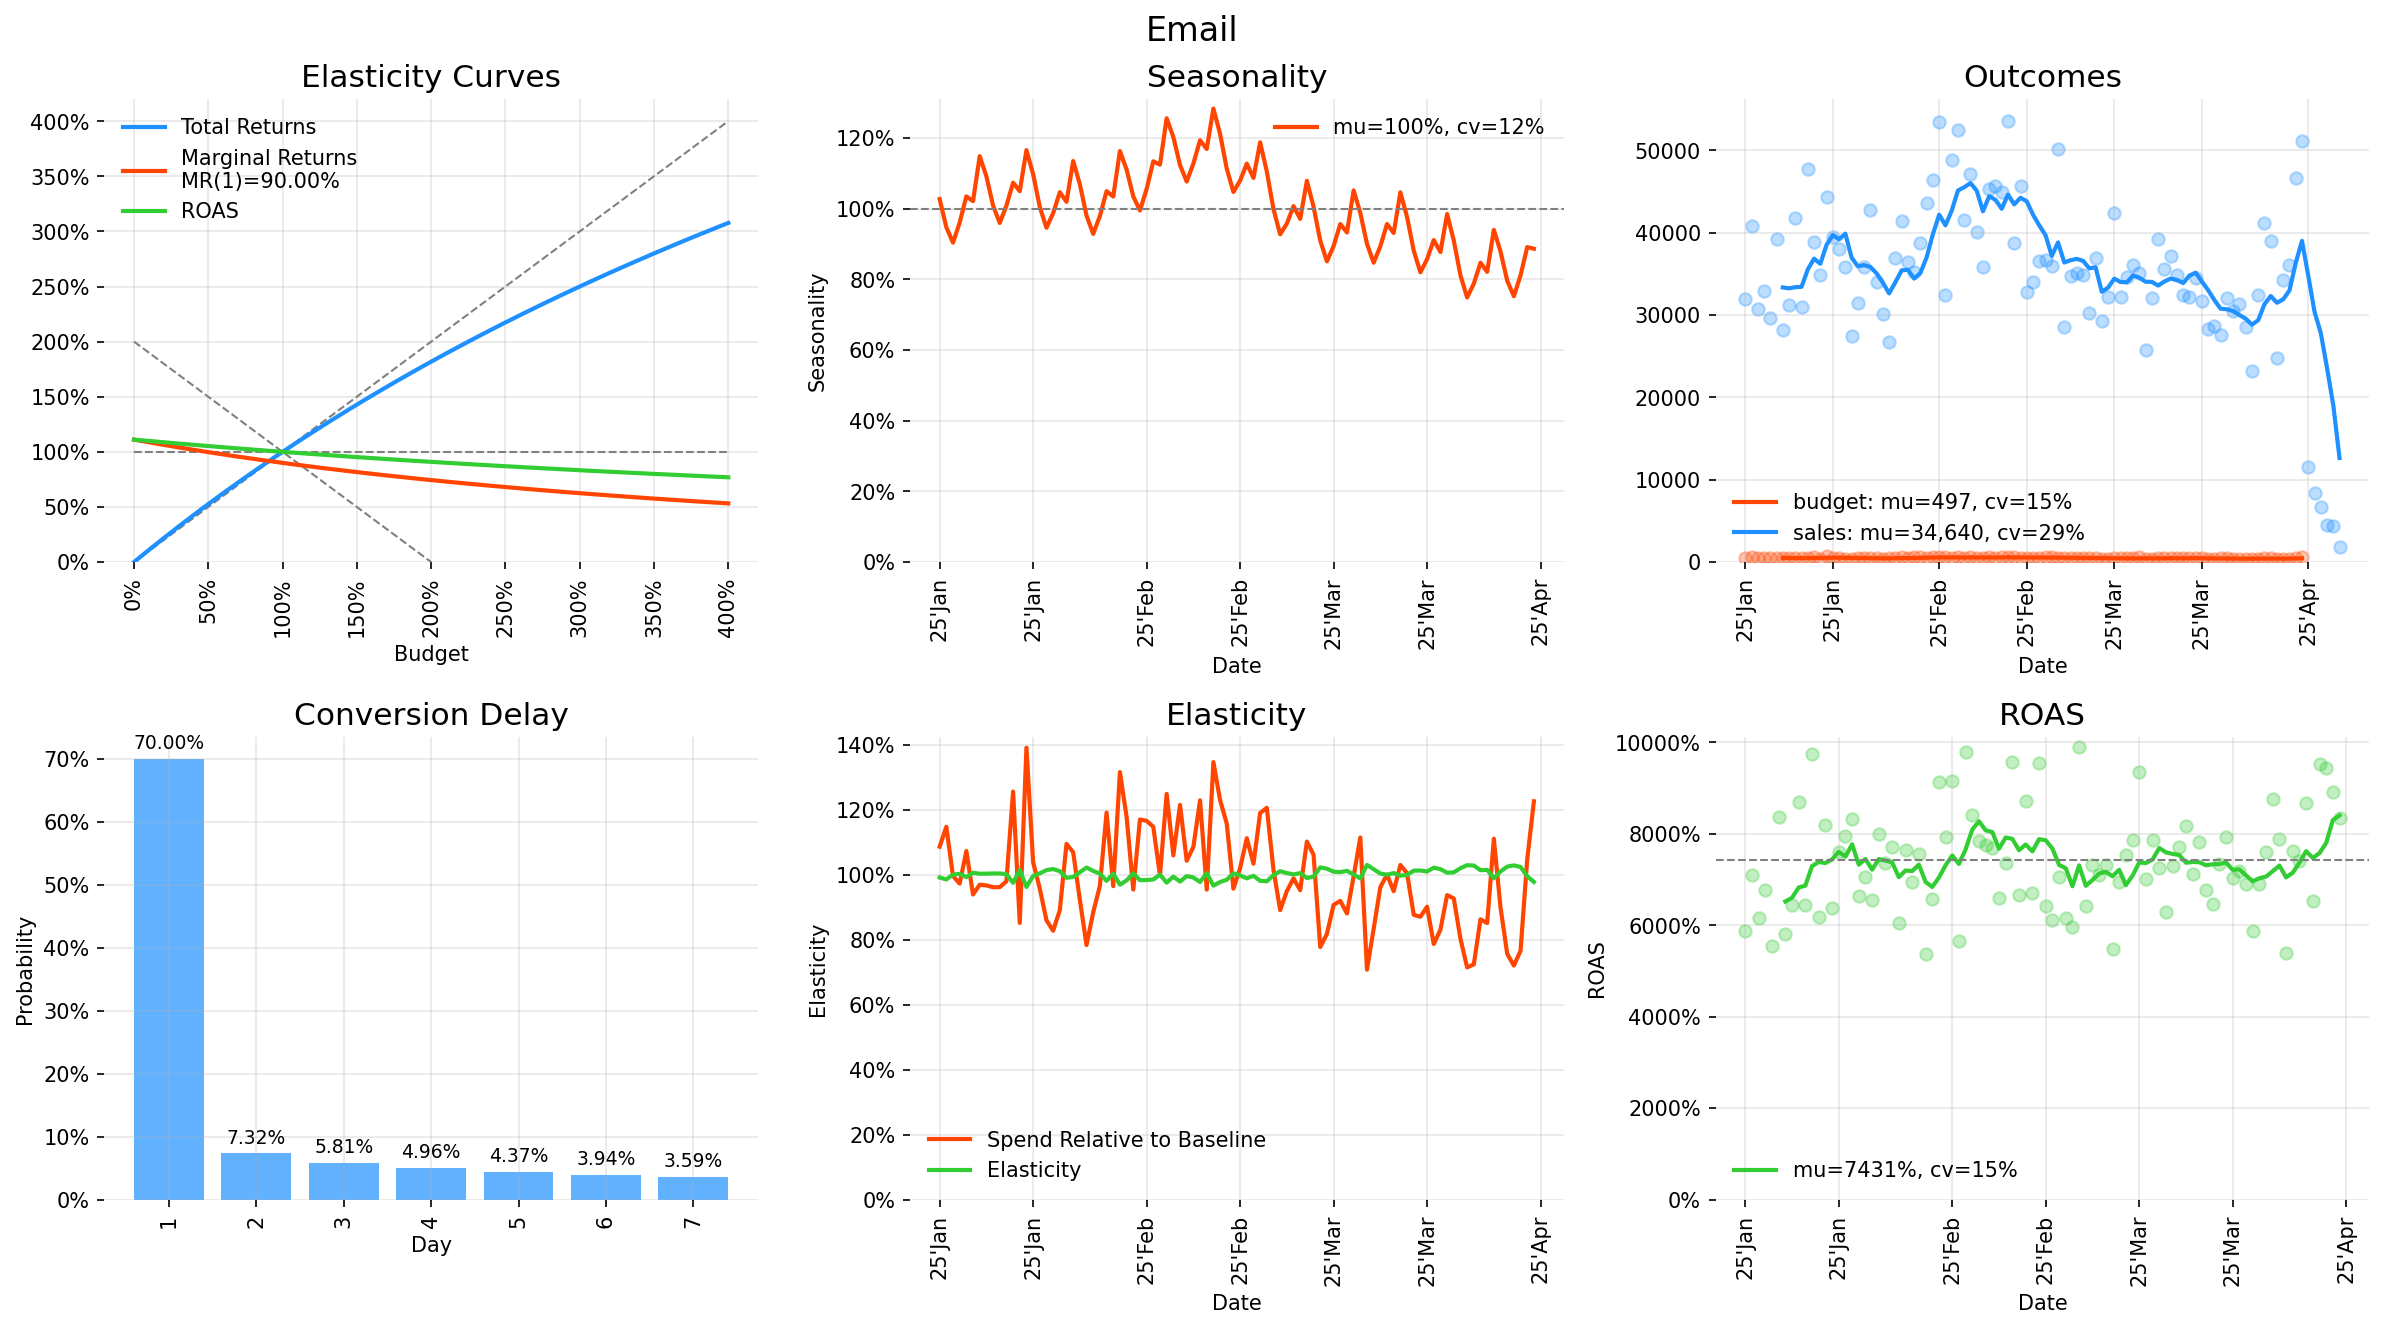
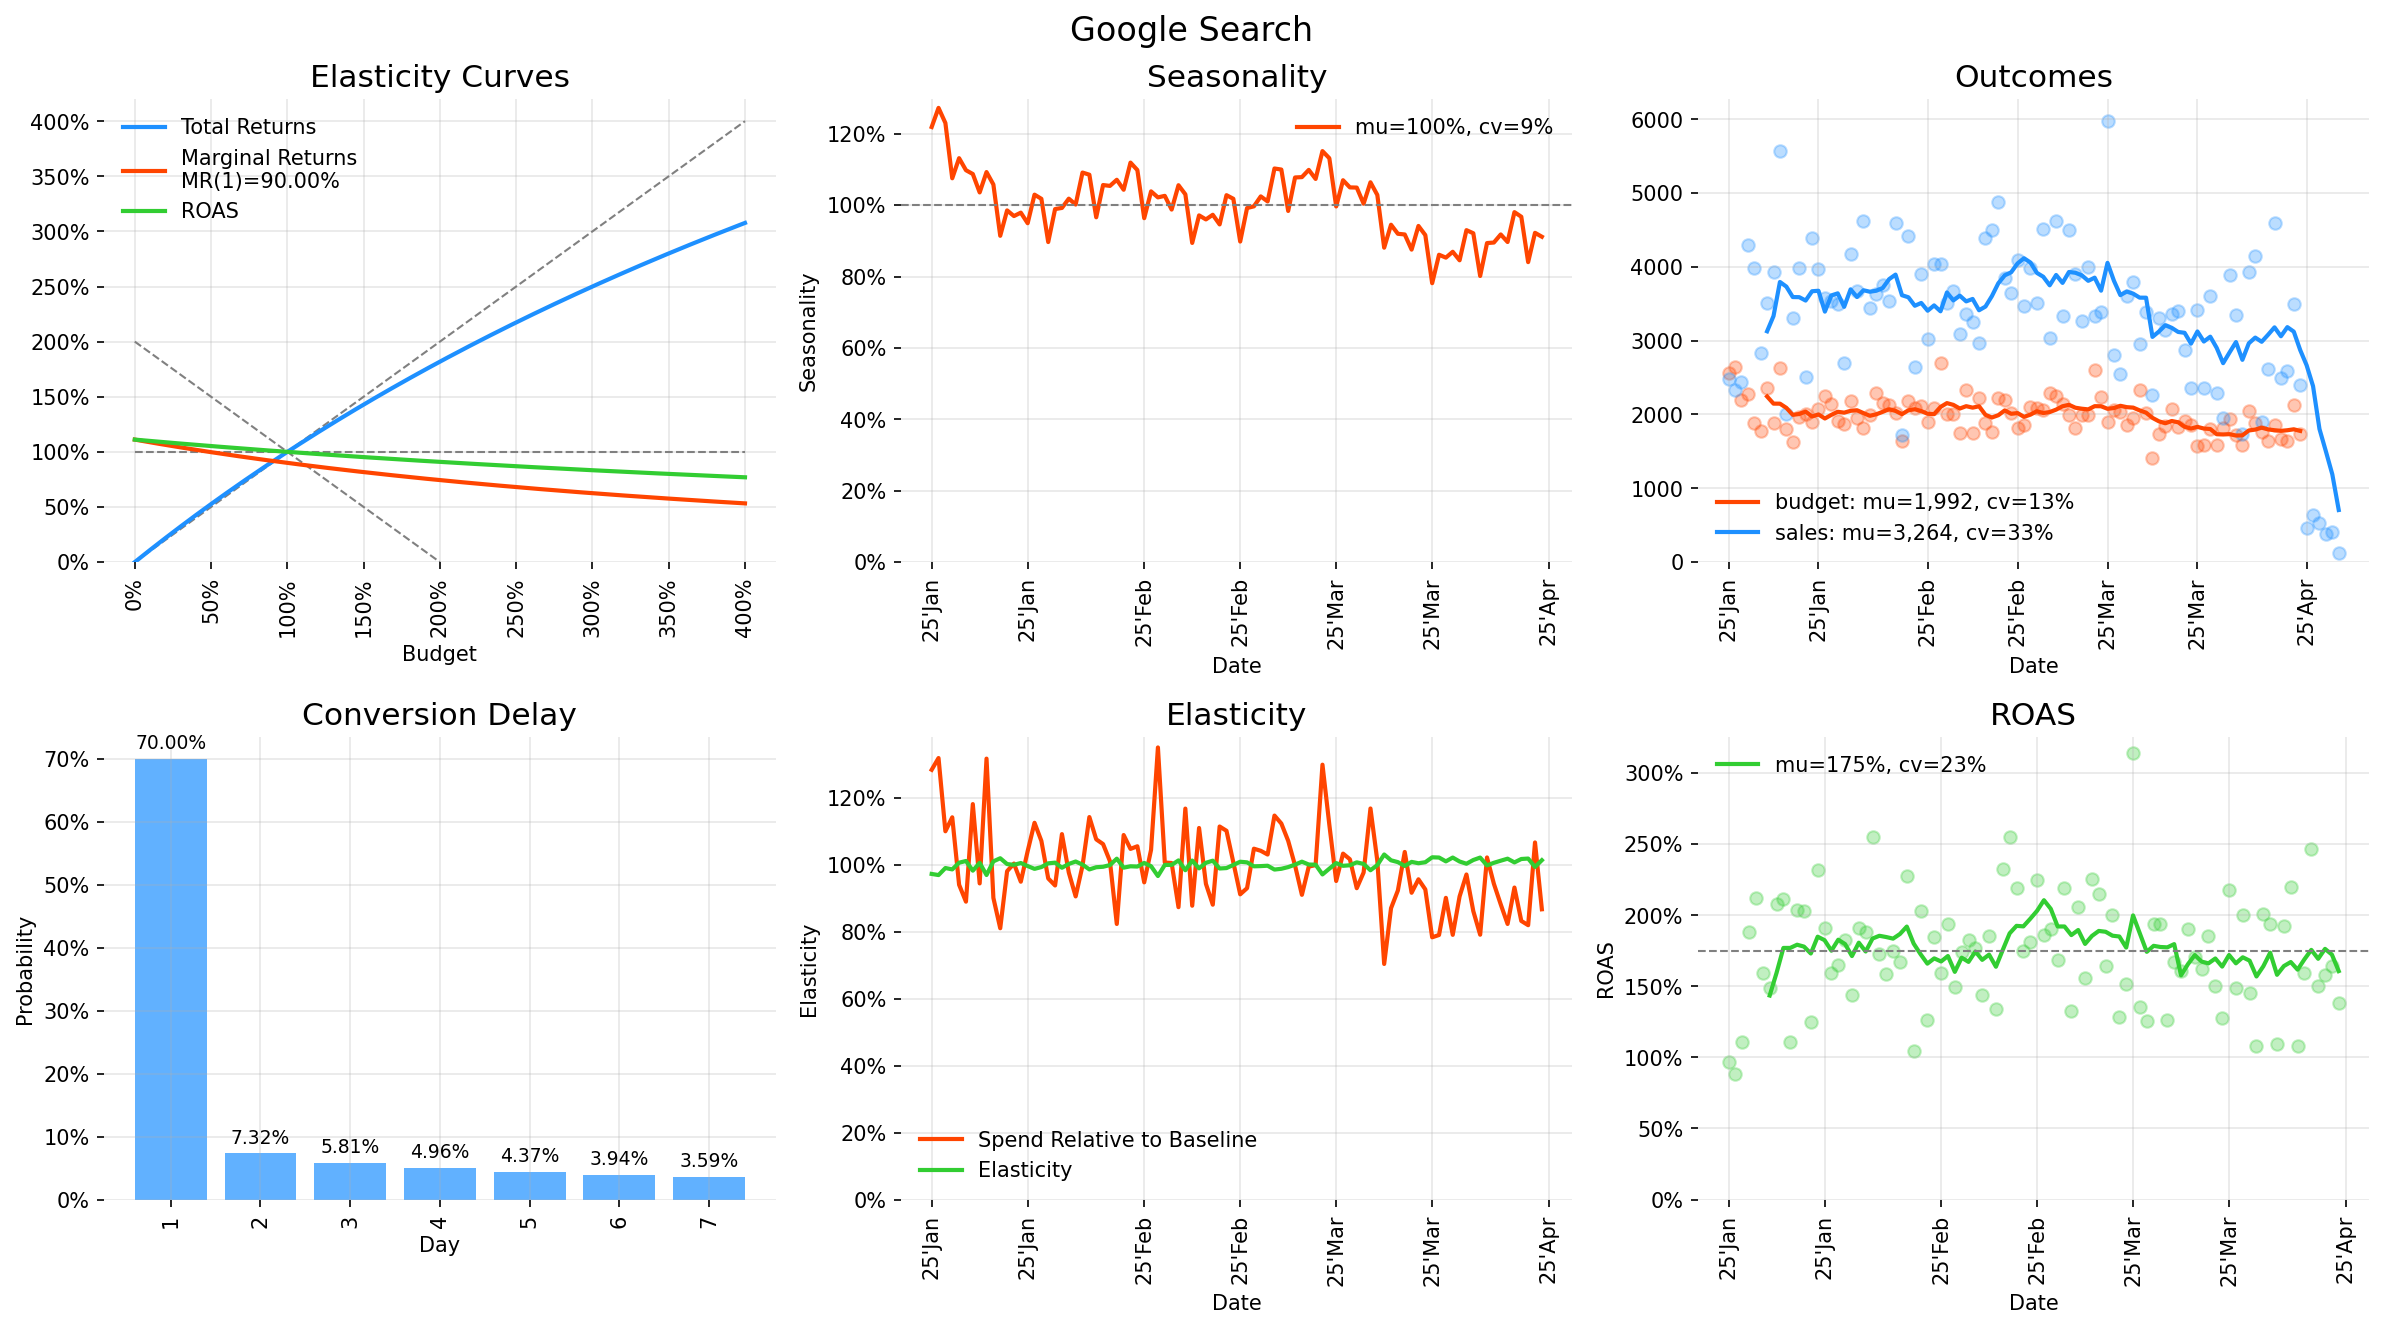
docs: refresh generated charts and README examples

diff --git a/README.md b/README.md
@@ -34,16 +34,14 @@ import pandas as pd
 
 # Create a marketing campaign
 campaign = Campaign(
-    name="Summer Sale",
-    cpm=15.0,
-    cvr=0.05,
-    aov=120.0,
-    cv=0.2,
-    start_date="2024-06-01",
-    duration=30,
-    base_budget=5000.0,
-    is_organic=False
-)
+    name="Google Search",
+    start_date="2025-06-10",
+    duration=120,
+    cpm=30,
+    cvr=5e-4,
+    aov=100,
+    base_budget=2000,
+),
 
 # Simulate campaign outcomes
 results = campaign.sim_outcomes()
@@ -56,14 +54,47 @@ print(f"Expected Sales: ${campaign.exp_tot_sales():,.0f}")
 ```python
 # Create multiple campaigns
 campaigns = [
-    Campaign(name="Paid Search", cpm=12.0, cvr=0.04, aov=100.0, 
-             cv=0.15, start_date="2024-01-01",  
-             base_budget=3000.0, is_organic=False),
-    Campaign(name="Social Media", cpm=8.0, cvr=0.03, aov=80.0, 
-             cv=0.25, start_date="2024-01-01", 
-             base_budget=2000.0, is_organic=False),
-    Campaign(name="Organic", c start_date="2024-01-01", 
-             base_budget=1000, is_organic=True)
+    Campaign(
+        name="Organic",
+        base_budget=5000,
+        is_organic=True,
+        elasticity=0.9,
+    ),
+    Campaign(
+        name="Google Search",
+        cpm=30,
+        cvr=5e-4,
+        aov=100,
+        base_budget=2000,
+    ),
+    Campaign(
+        name="Google Display",
+        cpm=10,
+        cvr=1e-4,
+        aov=80,
+        base_budget=500,
+    ),
+    Campaign(
+        name="Meta",
+        cpm=10,
+        cvr=2e-4,
+        aov=80,
+        base_budget=1000,
+    ),
+    Campaign(
+        name="Youtube",
+        cpm=9,
+        cvr=1e-4,
+        aov=90,
+        base_budget=1000,
+    ),
+    Campaign(
+        name="TikTok",
+        cpm=5,
+        cvr=1e-4,
+        aov=60,
+        base_budget=500
+    ),
 ]
 
 # Create portfolio and optimize budget allocation
